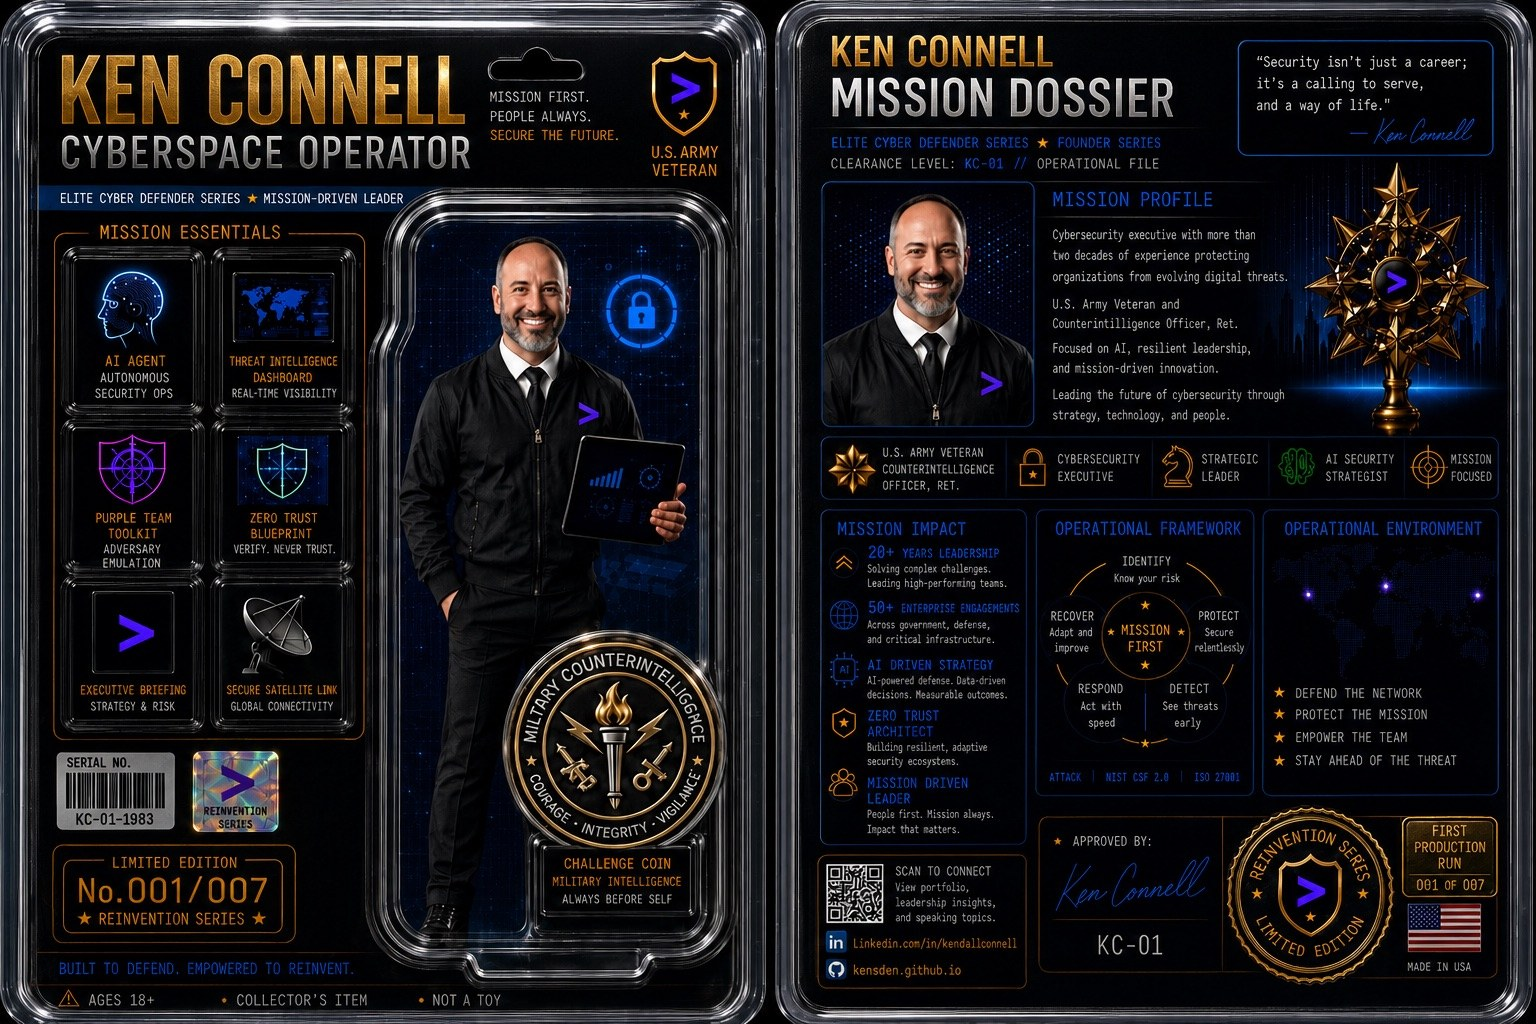
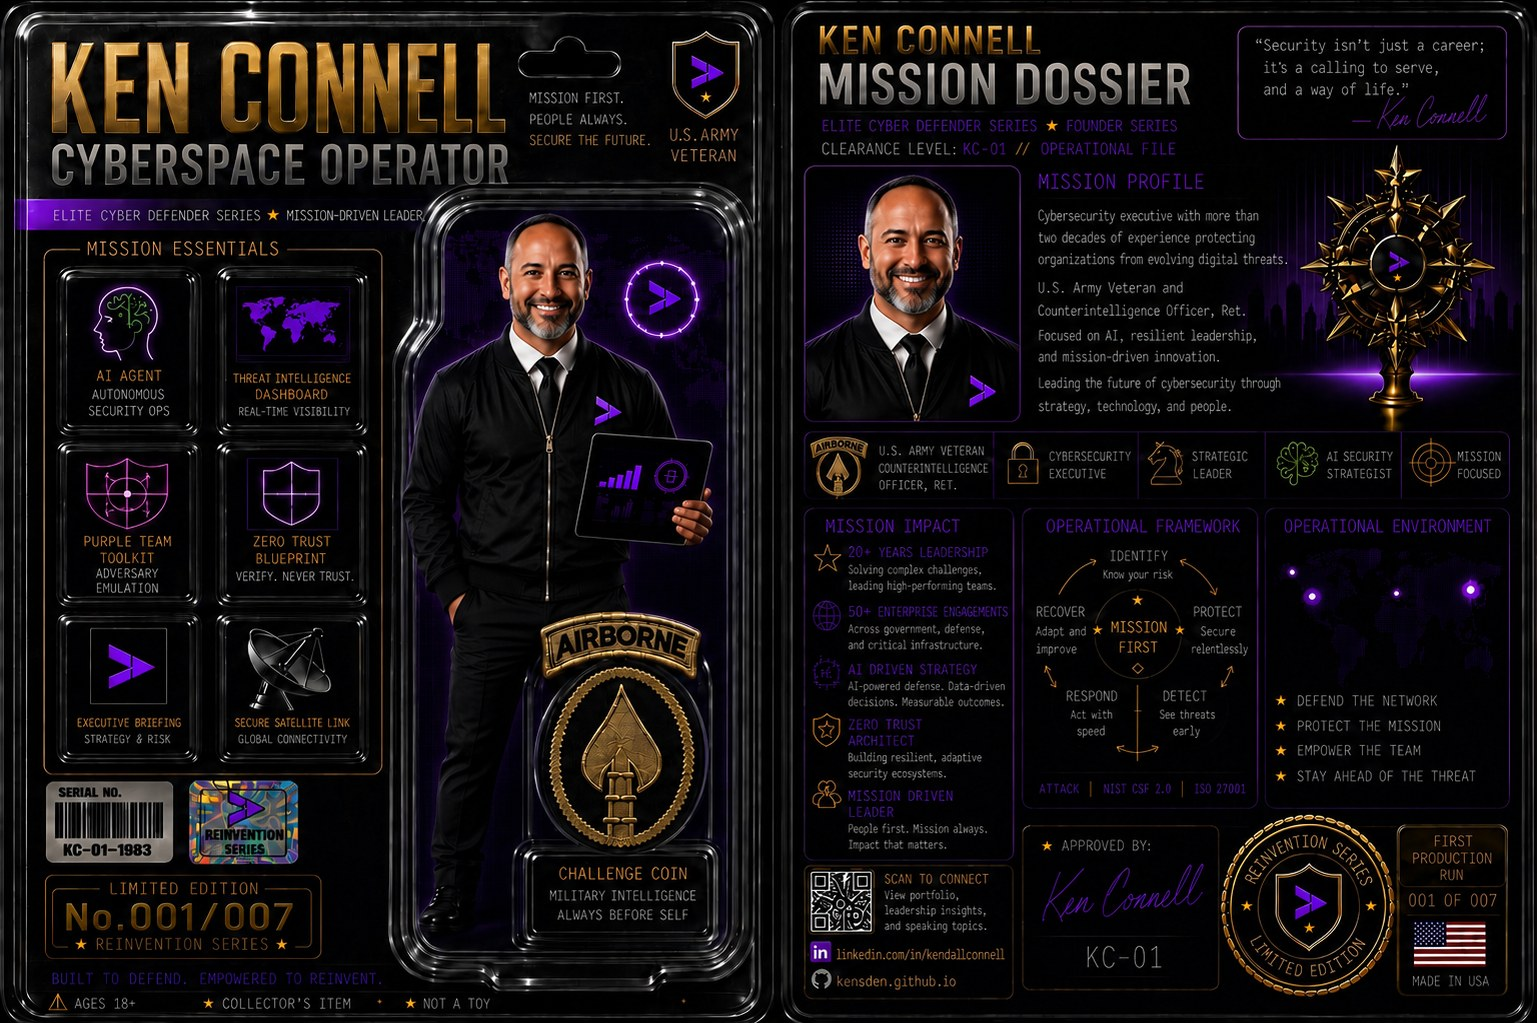
Add files via upload

diff --git a/index.html b/index.html
@@ -325,10 +325,11 @@ text-shadow:0 0 12px rgba(63,185,80,.4)}
     <p class="eyebrow">man ken</p>
     <h2>Collector's item</h2>
     <p class="body">What happens when a lifelong comic collector spends two decades in security? Eventually you make yourself the action figure. Mission first. People always. <span class="hl">Not a toy.</span> 🦸</p>
-    <p class="body">AI-generated, human-directed. And yes, even the advanced AI misspelled Counterintelligence. Twice. Moral of the story… Even the machine needs a <span class="hl">human in the lead</span>.</p>
+    <p class="body">Now I've finally made it into the toy aisle. Sort of. One evening spent directing an AI image model, and here I am in blister packaging. Not magic. Just a tool, built on human effort.</p>
+    <p class="body">And yes, the early versions misspelled several words. "Counterintelligence" among them. Took a human to catch the mistakes. Moral of the story… Even the machine needs a <span class="hl">human in the lead</span>!</p>
     <figure class="shot" style="max-width:640px">
       <a href="kc-01.jpg" target="_blank" rel="noopener">
-        <img src="kc-01.jpg" alt="A collector action-figure card: Ken Connell, Cyberspace Operator — blister pack front with mission essentials, and mission dossier back with profile, QR code, and challenge coin" loading="lazy" width="1536" height="1024" />
+        <img src="kc-01.jpg" alt="A collector action-figure card: Ken Connell, Cyberspace Operator — blister pack front with mission essentials, and mission dossier back with profile, QR code, and challenge coin" loading="lazy" width="1537" height="1023" />
       </a>
       <figcaption><span class="g">&gt;</span> limited edition · 001/007 · tap to inspect_</figcaption>
     </figure>
@@ -366,7 +367,7 @@ text-shadow:0 0 12px rgba(63,185,80,.4)}
     <p class="body">Out of the University of Georgia in 2009, my first job took me across the Atlantic — a security consultant at Deloitte in London, advising commercial clients throughout Europe on global trade compliance. 🌍</p>
     <p class="body">Since London, I've spent more than a decade in management consulting and risk advisory — leading enterprise cybersecurity work for Fortune 100 and global clients across the commercial and federal worlds, from cyber threat intelligence and cloud security to compliance across international frameworks. 🛡</p>
     <p class="body">These days I work in security — <span class="hl">countering threats and mitigating risks by harnessing advanced AI</span>. I pair an analyst's mindset with an operator's instinct to transform and reinvent all aspects of security. Attribution, insider risk, adversarial tradecraft: the old questions, asked of new Agentic AI systems. For me, security isn't just a department — it's a mission. 👾</p>
-    <p class="body">Off the clock, I'm a maker, a tinkerer, and a dad doing his best to pass the curiosity on — building little electronics projects with my kiddos and watching the same sparks of curiosity ignite in them. AI is becoming part of their everyday world the way the internet became part of mine, so we're learning it together — prompts and patterns one day, soldering irons the next. I'd rather raise <span class="hl">builders than browsers</span>; kids who create, build, and delegate, not just swipe and scroll. <span class="hl">Trust, but verify</span>, it turns out, is both a parenting principle and a security one. I wrote the longer version of that thought in <a href="https://www.linkedin.com/pulse/batman-has-superpowers-thats-whole-point-ken-connell-kibqe/" target="_blank" rel="noopener">Batman Has No Superpowers. That's the Whole Point.</a> 💡</p>
+    <p class="body">Off the clock, I'm a maker, a tinkerer, and a dad doing his best to pass the curiosity on — building little electronics projects with my kiddos and watching the same sparks of curiosity ignite in them. AI is becoming part of their everyday world the way the internet became part of mine, so we're learning it together — prompts and patterns one day, soldering irons the next. I'd rather raise <span class="hl">builders than browsers</span>; kids who create, build, and delegate, not just swipe and scroll. <span class="hl">Trust, but verify</span>, it turns out, is both a parenting principle and a security one. I wrote the longer version of that thought in <a href="https://www.linkedin.com/pulse/batman-has-superpowers-thats-whole-point-ken-connell-ejeqe/" target="_blank" rel="noopener">Batman Has No Superpowers. That's the Whole Point.</a> 💡</p>
 
     <div class="shot-row">
       <figure class="shot">
